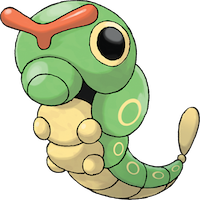
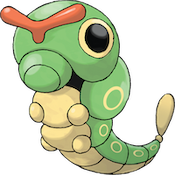
update image size; update css for card flip;

diff --git a/pokemon/pokemoncode.js b/pokemon/pokemoncode.js
@@ -38,6 +38,9 @@ function populatePokeCard(singlePokemon) {
     pokeScene.className = 'scene';
     let pokeCard = document.createElement('div');
     pokeCard.className = 'card';
+    pokeCard.addEventListener('click', () => {
+        pokeCard.classList.toggle('is-flipped')
+    })
 
     pokeCard.appendChild(populateCardFront(singlePokemon))
     pokeCard.appendChild(populateCardBack(singlePokemon))
@@ -48,7 +51,7 @@ function populatePokeCard(singlePokemon) {
 function populateCardFront(pokemon) {
     console.log(pokemon)
     let pokeFront = document.createElement('div');
-    pokeFront.className = 'card_face card_face--front';
+    pokeFront.className = 'card__face card__face--front';
     let frontLabel = document.createElement('p');
     frontLabel.textContent = pokemon.name;
     let frontImage = document.createElement('img');
@@ -61,7 +64,7 @@ function populateCardFront(pokemon) {
 
 function populateCardBack(pokemon) {
     let pokeBack = document.createElement('div')
-    pokeBack.className = 'card_face card_face--back'
+    pokeBack.className = 'card__face card__face--back'
     let backLabel = document.createElement('p')
     backLabel.textContent = `Moves: ${pokemon.moves.length}`
     pokeBack.appendChild(backLabel)

diff --git a/pokemon/style.css b/pokemon/style.css
@@ -20,6 +20,8 @@
 .card {
     width: 100%;
     height: 100%;
+    transition: 1s;
+    transform-style: preserve-3d;
     cursor: pointer;
     position: relative;
 }
@@ -32,10 +34,19 @@
     position: absolute;
     width: 100%;
     height: 100%;
-    line-height: 260px;
-    color: white;
+    color: black;
     text-align: center;
     font-weight: bold;
-    font-size: 40px;
     backface-visibility: hidden;
+    border: 4px darkblue solid;
+    box-shadow: 3px 3px 3px black;
+}
+
+.card__face--front {
+    background: red;
+}
+
+.card__face--back {
+    background: blue;
+    transform: rotateY(180deg);
 }
